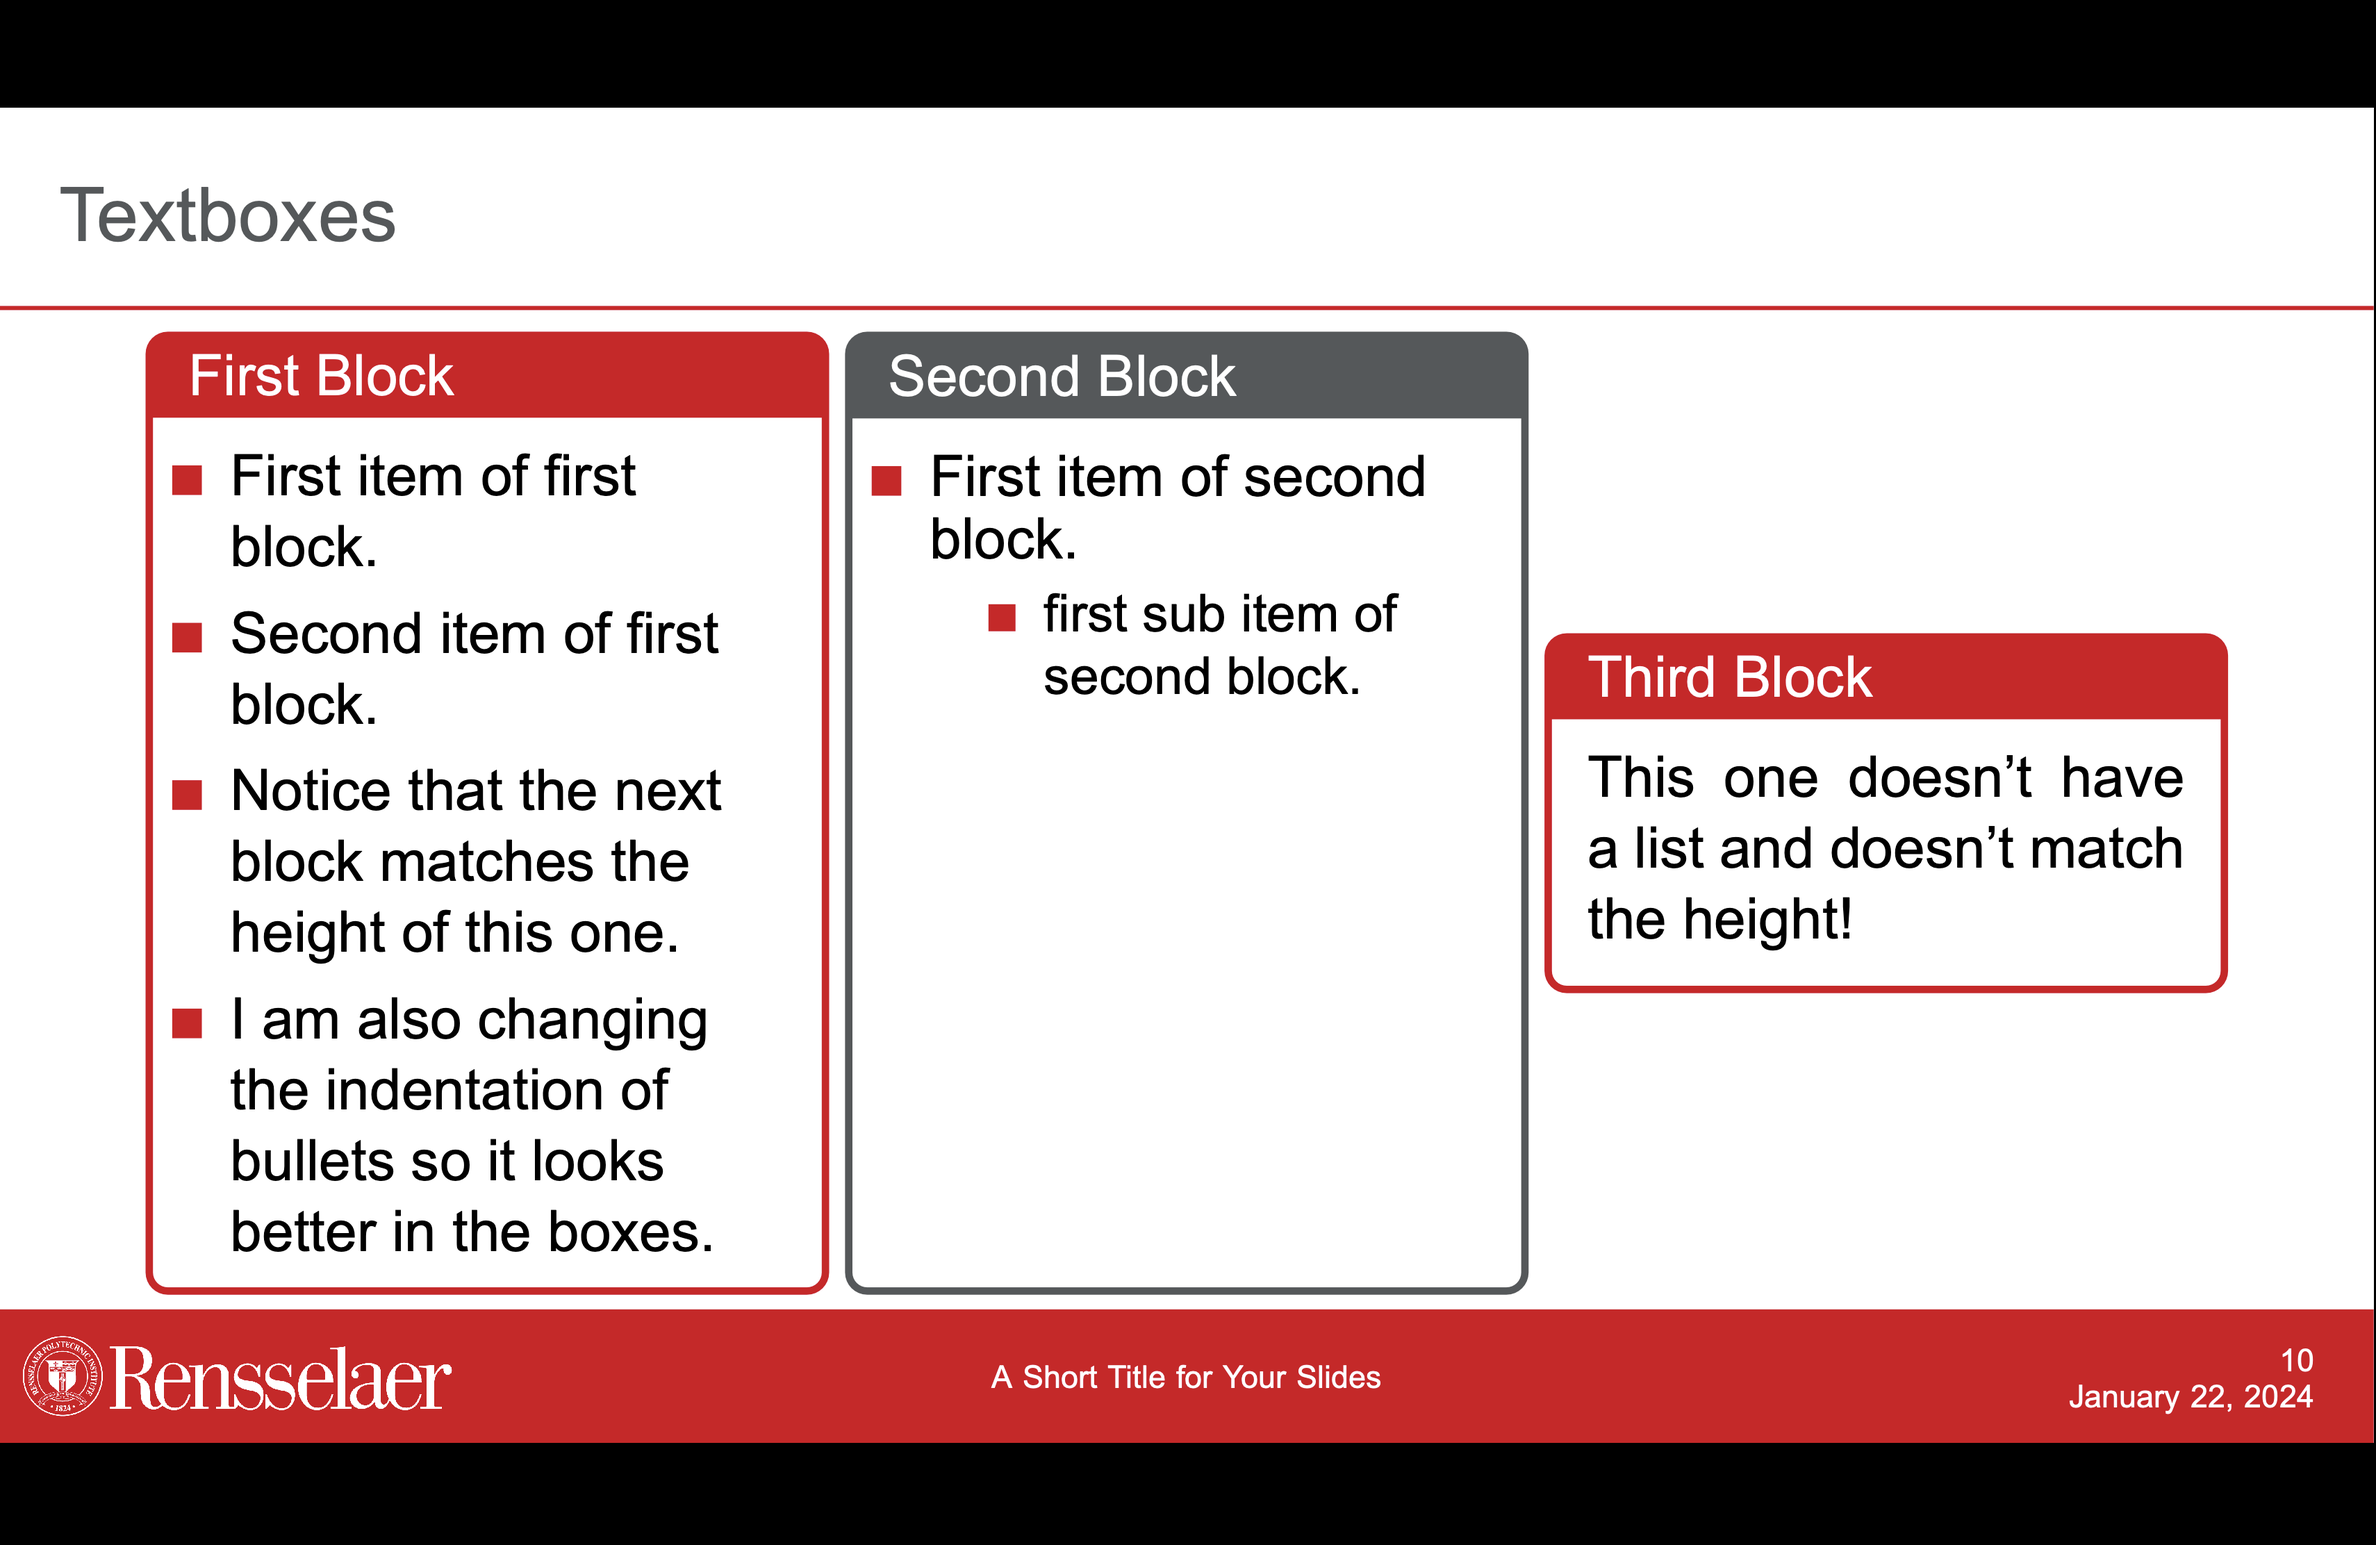
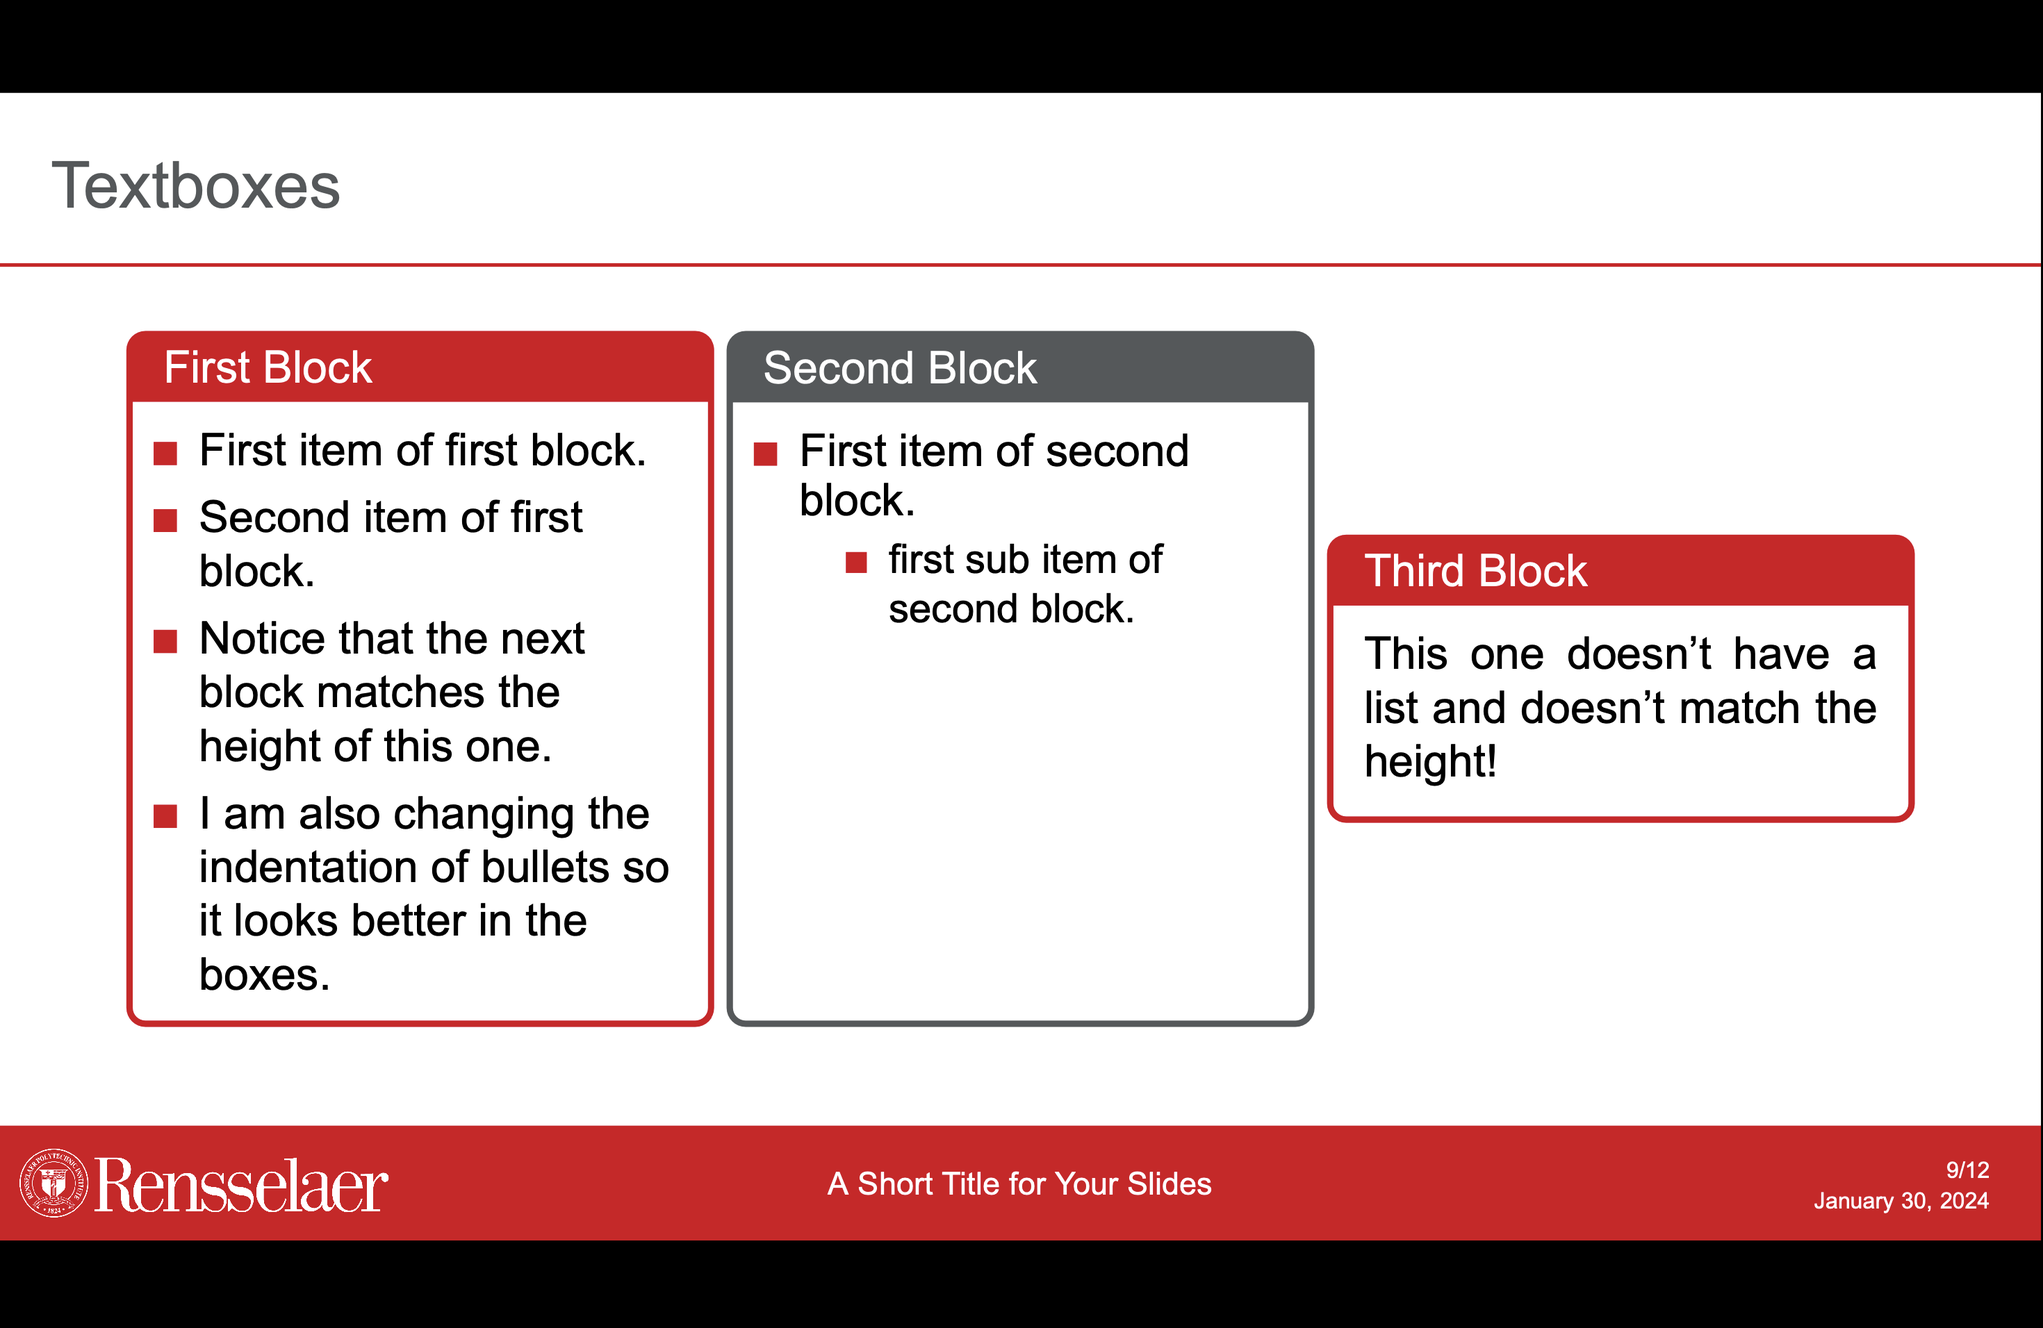
updated readme

diff --git a/README.md b/README.md
@@ -6,19 +6,31 @@ Please feel free to suggest any changes (even better) implement your own.
 # Screenshots
 
 ## Title Page
-![](./screenshots/title-page.png)
+![](./screenshots/title.png)
 
 ## Regular Page
-![](./screenshots/plain-page.png)
+![](./screenshots/plain.png)
+
+## List
+![](./screenshots/list.png)
+
+## Figure(s)
+![](./screenshots/figures.png)
+
+## Table(s)
+![](./screenshots/table.png)
 
 ## Textblocks
 ![](./screenshots/textblocks.png)
 
-## Citations
-![](./screenshots/citations.png)
+## Using bib
+![](./screenshots/bibtex.png)
 
 ## Table of Contents
-![](./screenshots/table-of-contents.png)
+![](./screenshots/toc.png)
 
-## Section Overview
-![](./screenshots/outline.png)
+## Section Progress
+![](./screenshots/progress.png)
+
+## Citations
+![](./screenshots/references.png)
